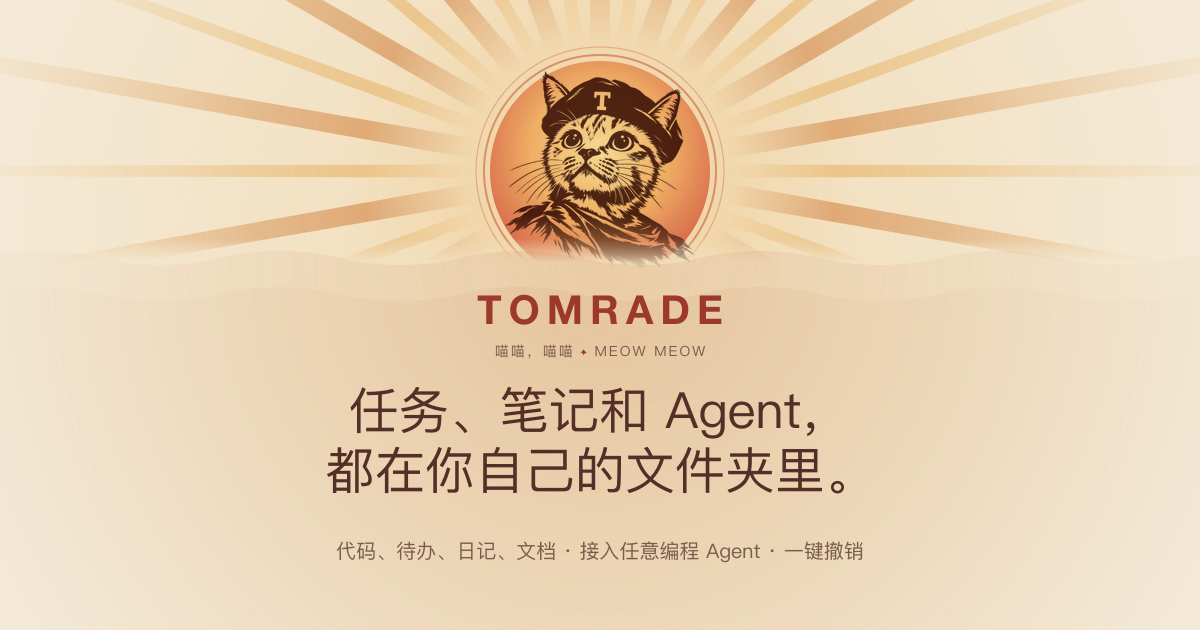
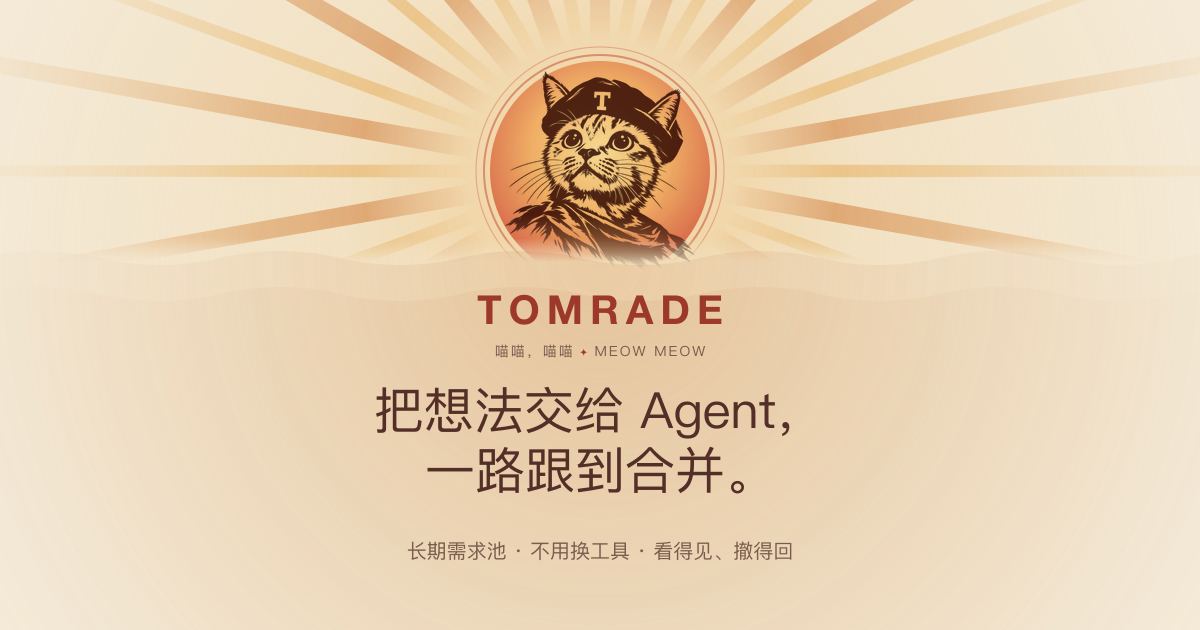
TOM-755: both READMEs open with idea to merged PR, the three pillars and the core loop (#684)

Changed region(s): [[0.2775, 0.6032, 0.7092, 0.7841], [0.2775, 0.8444, 0.7092, 0.9048]]

diff --git a/README.zh-CN.md b/README.zh-CN.md
@@ -1,5 +1,5 @@
 <p align="center">
-  <img src="docs/images/banner-zh.png" alt="Tomrade：红太阳前的猫。任务、笔记和 Agent，都在你自己的文件夹里。代码、待办、日记、文档；接入任意编程 Agent；一键撤销。" width="820">
+  <img src="docs/images/banner-zh.png" alt="Tomrade：红太阳前的猫。把想法交给 Agent，一路跟到合并。长期需求池；不用换工具；看得见、撤得回。" width="820">
 </p>
 
 <p align="center">
@@ -20,11 +20,13 @@
 
 # Tomrade
 
-**Tom + comrade，你和 Agent 的好战友。** 任务、笔记和 Agent，都在你自己的文件夹里。
+**Tom + comrade，你和 Agent 的好战友。** 把想法交给 Agent，一路跟到合并。
 
-你的 Agent **凌晨三点**还在干活。它读工单、改笔记，偶尔把**你所有的东西**都重写一遍。Tomrade 是为它们造的工作区，顺便**给你配了一个撤销键**。
+你的 Agent 负责写代码，Tomrade 记得要做什么、做到哪、改了什么。下一次会话从上一次停下的地方接着做，任何一次运行都能一键撤销。这是一个本地优先的工作区，给用 Claude Code、Codex 等编程 Agent 做东西的独立开发者和小团队。
 
-这是一个为独立创作者和小团队打造的本地优先工作区。代码项目、这周的待办、日记、一摞文档，都能在同一个应用里管。说一句话，助手就把整个需求池拆好；工单交给 Claude Code、Codex 或你在用的其他编程 Agent 去做；Agent 的任何一次运行都能一键撤销。
+- **长期的需求池。** 每次会话都从零开始，需求池不会。想法、工单、决定和已经做完的事，跨会话、跨 Agent 都放在一处。
+- **不用换工具。** Claude Code、Codex 或 Cursor 照旧在你自己的终端里跑。Tomrade 通过 MCP 和 git 连上它们，看板自己跟上进度。
+- **看得见、撤得回。** Agent 的每一次写入都有署名，按运行归组。一次运行改了什么，一键整个撤回：工单、笔记、设置都算。
 
 <p align="center">
   <a href="https://tomrade.com/zh/#films"><img src="docs/images/film-zh.jpg" alt="播放 87 秒演示片：一个想法变成串起来的工单，Agent 们排队提问，夜里自动执行，一键全部撤销。" width="820"></a><br>
@@ -37,6 +39,17 @@
 
 > [!NOTE]
 > **测试版。** 1.0 之前 Tomrade 还在开发测试中，功能每周都在变，难免有不完善的地方。你的项目就是自己硬盘上的普通文件夹，重要的请自行备份。
+
+## 怎么用
+
+从一个想法到合并的 PR，就这一个循环：**聊、拆、做、合。**
+
+1. **聊。** 用大白话说你想要什么，在电脑前或者用手机都行。它会变成看板上的一张工单。
+2. **拆。** 说一句「整理一下」，助手合并重复、把大单拆成一个 PR 就能做完的工单。你来挑，不满意一键撤回。
+3. **做。** 在你自己的终端里把工单号报给 Claude Code、Codex 或别的 Agent，或者点**开始**。它自己认领、在自己的分支上干活，再把进度报回来。
+4. **合。** 剩下的交给自动执行：夜里顺着依赖图一张张做，通过的就合并，早上给你一份早报。
+
+每一步都有一段短片，在 [tomrade.com](https://tomrade.com/zh/#how)。
 
 ## 不只是写代码
 

diff --git a/README.md b/README.md
@@ -1,5 +1,5 @@
 <p align="center">
-  <img src="docs/images/banner.png" alt="Tomrade: the cat on a red rising sun. Tasks, notes and agents, in one folder you own. Code, plans, journals and docs; any coding agent; undo any run." width="820">
+  <img src="docs/images/banner.png" alt="Tomrade: the cat on a red rising sun. From idea to merged PR, with the agents you already use. A backlog that lasts; keep your tools; see it, undo it." width="820">
 </p>
 
 <p align="center">
@@ -20,11 +20,13 @@
 
 # Tomrade
 
-**Tom + comrade.** Tasks, notes and agents, in one folder you own.
+**Tom + comrade.** From idea to merged PR, with the agents you already use.
 
-Your agents work at **3 a.m.** They read your tickets, edit your notes, and now and then rewrite **everything you own.** Tomrade is the workspace built for them, with **an undo button built for you.**
+Your agents write the code. Tomrade remembers what to build, how far it got and what changed, so every session picks up where the last one stopped, and any run can be undone in one click. It's a local-first workspace for solo makers and small teams who build with Claude Code, Codex and the other coding agents.
 
-It's a local-first workspace for solo makers and tiny teams. Run a codebase, your week, a journal or a shelf of docs from the same app. Say one sentence and the assistant drafts the whole backlog; hand a ticket to Claude Code, Codex or whichever coding agent you use; undo any agent run in one click.
+- **A backlog that lasts.** Every session starts from zero; the backlog doesn't. Ideas, tickets, decisions and what's already done stay in one place across sessions and agents.
+- **Keep the tools you have.** Claude Code, Codex or Cursor stay in the terminal you already use. Tomrade connects over MCP and git, and the board keeps up on its own.
+- **See it, undo it.** Every agent write is attributed and grouped by run. One click takes a whole run back: tickets, notes and settings alike.
 
 <p align="center">
   <a href="https://tomrade.com/#films"><img src="docs/images/film.jpg" alt="Play the 87-second film: one idea becomes linked tickets, agents ask their questions, an auto run works through the night, and one click undoes it all." width="820"></a><br>
@@ -37,6 +39,17 @@ It's a local-first workspace for solo makers and tiny teams. Run a codebase, you
 
 > [!NOTE]
 > **Preview.** Until 1.0, Tomrade is in development and testing: things change from week to week and you will hit rough edges. Your projects are plain folders on your own disk, so back up the ones that matter.
+
+## How it works
+
+One loop from an idea to a merged pull request: **talk, split, build, merge.**
+
+1. **Talk.** Say what you want in plain words, at your desk or from your phone. It becomes a ticket on the board.
+2. **Split.** Say "tidy up" and the assistant merges duplicates and splits the big ones into tickets sized for one pull request. You pick; one click takes it back.
+3. **Build.** Name a ticket to Claude Code, Codex or another agent in your own terminal, or press **Start**. It claims the ticket, works on its own branch and reports back.
+4. **Merge.** Leave the rest to an auto run: it works down the dependency graph overnight, merges what passes and writes you a report by morning.
+
+Each step has a short film on [tomrade.com](https://tomrade.com/#how).
 
 ## Not just for code
 
